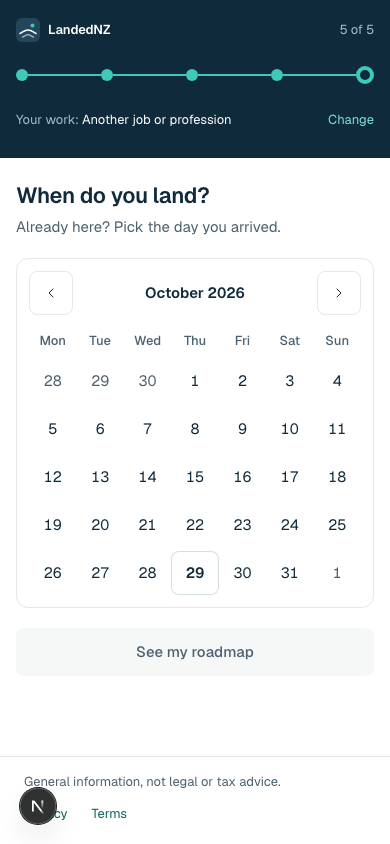
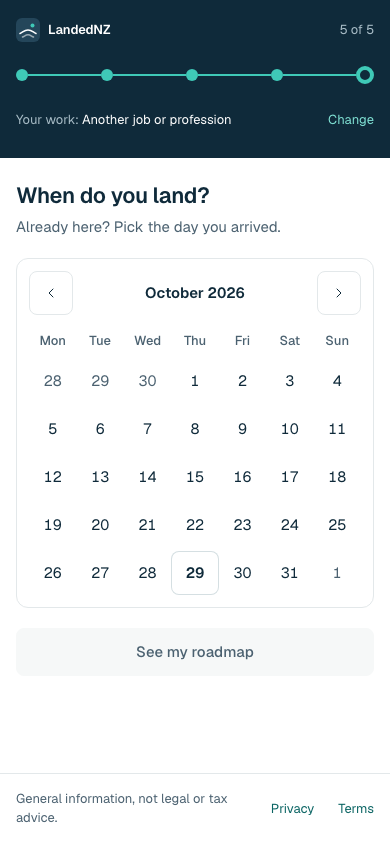
docs: public screens gate and behaviour audit

diff --git a/docs/design/r1-final/gate/behaviour-audit.md b/docs/design/r1-final/gate/behaviour-audit.md
@@ -1,0 +1,106 @@
+# Behaviour audit: feat/r1-public-screens against main
+
+Range: `d37e292` (main, merge base) to `64ec7c3`. Paths: `apps/api/**`, `packages/types/**`, `apps/web/src/lib/**`,
+`apps/web/src/app/**/route.ts`, `apps/web/src/proxy.ts`.
+
+The branch carries 100 commits: the content platform and verification work (2026-10-25), R0 polish (2026-10-28) and the
+final screens (2026-10-29). Each change is matched to the spec that asked for it. Spec short names:
+
+- **CP**: `docs/superpowers/specs/2026-10-24-content-platform-design.md`
+- **R0**: `docs/superpowers/specs/2026-10-24-r0-foundation-design.md`
+- **PS**: `docs/superpowers/specs/2026-10-28-r0-polish-and-stage-c-design.md`
+- **FS**: `docs/superpowers/specs/2026-10-29-final-screens-design.md`
+
+`apps/web/src/app/**/route.ts` and `apps/web/src/proxy.ts`: **no diff**. Test-only files that follow a change
+below (fixtures renamed for the new enum values, new tests) are not listed.
+
+## Summary
+
+| Result | Count |
+|---|---|
+| Spec-backed | 33 |
+| Reverted | 0 |
+| Owner decision | 2 |
+
+## apps/api and packages/types
+
+| # | File | Change | Spec |
+|---|---|---|---|
+| 1 | `apps/api/content/**` (tasks, facts, sources, research, dimensions.yaml; `kb-master.md` removed) | Verified task content T01–T36, new facts and sources, research notes; the legacy markdown is gone | CP §5 stages 0–4, §6 steps 5, 7 and 9 |
+| 2 | `packages/types/dimensions.ts`, `prisma/schema.prisma`, migration `20261025100000_dimension_changes` | Stage 0 answer values: 8 visas, `SOLE_PARENT`, Technology and Finance folded into Another profession; existing rows mapped in the migration | CP §3.1, §5 stage 0, §6 step 6, §8.2 |
+| 3 | `golden-examples/rag-retrieval.ts` | Fixture occupation `TECHNOLOGY` → `OTHER_PROFESSIONAL` (value no longer exists) | follows #2 |
+| 4 | `src/content/rules.ts` | Tighter figure, provider and staleness rules; month names case-sensitive | CP §3.6 rules 3 and 6 |
+| 5 | `src/content/review.ts`, `scripts/content-review.ts`, `package.json` `content:review` | Per-task review page for the owner | CP §5 stage 4 |
+| 6 | `scripts/convert-kb-master.ts` (removed), `src/content/build.ts`, `src/content/index.ts` | Conversion bridge removed; `checkedAt` optional because retired stubs have no items | CP §6 step 9; §4.3 (retired tasks served read-only) |
+| 7 | `features/roadmap/roadmap.service.ts` `getTaskDetail` | `lastVerified: checkedAt ?? null` for retired stubs | CP §4.3, §8.3 |
+| 8 | `features/roadmap/roadmap.build.ts` `reconcileRoadmap`, `onboarding.service.ts`, `roadmap.recalculate.ts`, `roadmap.types.ts` (`entriesAdded`, `entriesRemoved`) | Changing answers and the content-deploy recalculate both reconcile: add newly applicable tasks, drop open (`NOT_STARTED`) ones that no longer apply, keep every started entry, rescore | CP §4.3 (no user data lost, retired tasks kept read-only), §8.3; plan `2026-10-25-content-verification.md` Task 6 |
+| 9 | `features/roadmap/roadmap.build.ts` `bestByDate`, `roadmap.service.ts` `getRoadmap`, `roadmap.types.ts` `RoadmapTask.bestBy` | `bestBy` = arrival + earliest `toDay` − 1 | FS §2 decision 5, §6.1 |
+| 10 | `features/chat/service.ts` | SSE CORS header echoes the request origin only when it is in `CORS_ORIGIN` (was hard-coded `http://localhost:3000`) | R0 §4.4 (CORS restricted to the environment's web origins) |
+| 11 | `features/roadmap/roadmap.service.ts` `getTaskDetail` | `governmentSourceUrl` (the task's action button) now comes from the first step's source, falling back to the why line's; main used the why line first | **Owner decision**, see below |
+
+## apps/web/src/lib
+
+| # | File | Change | Spec |
+|---|---|---|---|
+| 12 | `api.ts` | `RoadmapApiTask.bestBy` | FS §6.1 |
+| 13 | `answers.ts` | `SOLE_PARENT` wording "you and your children" | CP §8.2 (follows #2) |
+| 14 | `answers.ts` `answersShort` | Save chip's short answers line "visa · city · who · lands d Mon" | FS §4.1 (Save your roadmap) |
+| 15 | `legs.ts` `legForPhase` (replaces hard-coded `T01–T21` id ranges) | A task's stage comes from its content phase, so T22–T36 land in the right stage | CP §5 stage 1 (phases per task) |
+| 16 | `legs.ts` `legName`, `legWhen` copy | "Before you fly" until arrival, "by 1 Mar", "1–2 Mar", "from April" | PS §3.3 (stage names and dates) |
+| 17 | `legs.ts` `legStart` | Start date of the next stage for "Nothing else this week. {stage} starts on {d Month}." | PS §3.3 (Also this week empty line) |
+| 18 | `nz-date.ts` | New formatters `shortDate`, `dayMonth`, `weekdayDay`, `weekdayDayNZ` | FS §3.1, §5.1, §5.2, §6.2 (date formats) |
+| 19 | `calendar.ts` (new) | Month grid, key moves, land chip and titles for the Calendar | FS §4.3 |
+| 20 | `route-view.ts` order | Route ordered by phase, then id (was id only) | CP §5 stage 1 (follows #15) |
+| 21 | `route-view.ts` `waitsOn` | "Waits on {topic}" replaces "Needs {topic} first" | FS §2 decision 7, §5.1 |
+| 22 | `route-view.ts` `blocker`, `blockedBy`, `bestBy`, `unlocksOf` | Data for Unlocks, arcs and Best done by | FS §3.1 (arcs), §5.1, §5.2, §6.2 |
+| 23 | `route-view.ts` `buildRouteView(…, now)` | Stage name depends on before/after arrival | PS §3.3 |
+| 24 | `route-progress.ts` (new) | Road geometry: flags `[150, 270, 530, 820, 1000]`, You by tasks done, Today by date, dots, stage row | FS §3.1 |
+| 25 | `route-progress.ts` marker stage | After arrival the "You're here" pill and "· now" sit on the calendar stage; flags and the walked road stay on the current stage | FS §3.1 and critique-independent.md P2-1 (S3 owner-accepted) |
+| 26 | `roadmap-itinerary.ts` (new) | Done so far, Today, current stage and later stages rows | FS §5.2 |
+| 27 | `home-view.ts` greeting and subline | "Welcome to {city}" ("Welcome" before arrival); "n of N done · day d since you landed on {date}" | FS §5.1 items 1 |
+| 28 | `home-view.ts` next move | `nextMeta`, `unlocks` | FS §5.1 item 3 |
+| 29 | `home-view.ts` Then this week | Stage today falls in, up to 3 rows, "n more in {stage}", "n days left" aside, empty line | FS §5.1 item 3, §3.1 (n days left); PS §3.3 |
+| 30 | `home-view.ts` Recently done | Latest 4, "Done {Wed 4 Nov} · {stage}", total | FS §5.1 item 4 |
+| 31 | `home-view.ts` Your plan card data removed, `firstName` removed | The plan card goes; greeting no longer uses the name | FS §5.1 item 5, item 1 |
+| 32 | `tel-links.ts` (new) | NZ freephone numbers become `tel:` links | PS §3.5 |
+| 33 | `task-copy.ts` titles T01, T11, T12, T17, T19; new T28 | App titles match the verified tasks; title for the new visa-conditions task | CP §5 stages 1–2 |
+| 34 | `suggestions.ts` | Ask's starter questions drop "What documents do I need?" and "What do people get wrong?"; only "How long does it take?" remains | **Owner decision**, see below |
+| 35 | `answers.ts`, `legs.ts` comment-only edits | Example strings in comments | none needed (no behaviour) |
+
+## Owner decisions
+
+1. **#11 Action button opens the first step's page** (`656bf0f fix(roadmap): open the first step's page from the task action`).
+   No spec section asks for it. The content-verification plan's writing rule (plan `2026-10-25-content-verification.md`, "Write")
+   says "`steps[0]` cites the page the user acts on … the task sheet's action link opens it", and all 36 verified tasks were
+   written to that rule. Reverting would send every task's government button to the background page behind the why line
+   instead of the form or online service. Not reverted: the revert reaches every task's main action and contradicts how the
+   verified content was written. Owner to confirm the plan rule stands.
+2. **#34 Fewer Ask starter questions** (`699ce15 feat(web): open a task as a full page instead of a side sheet`).
+   No spec section names it. FS §6.2 says the Ask card is "the existing `AskPanel`, unchanged", and the panel at the
+   spec's date already had this change. The approved Task board (`Task.dc.html`) shows no starter chips at all. Reverting
+   would add two chips the board does not show, on a page that already lists "Have ready" and "Good to know".
+   Not reverted. Owner to confirm.
+
+## Manual click-through
+
+Run 2026-10-29 with Playwright against the production build on 3100 (`next start`, `NEXT_PUBLIC_API_URL=http://localhost:3101`)
+and the API on 3101 (`AI_MODE=mock`, `CORS_ORIGIN=http://localhost:3100`), local Supabase, and the real local user
+`e2e-auth@example.com` reset through `e2e/test-user.ts` (`DELETE /account`, then admin create). No page errors were thrown.
+
+| # | Step | Result |
+|---|---|---|
+| 1 | Onboarding: Landing → Build my roadmap → AEWV, Auckland, Just me, Another job or profession → today on the calendar → See my roadmap | Pass. Lands on `/onboarding/preview`, h1 "Your roadmap is ready" |
+| 2 | Preview | Pass. "Before you fly · 7 tasks" and the Start here block shown |
+| 3 | Save my roadmap | Pass. `/signin?redirect=%2Fapp`, h1 "Save your roadmap", chip "Saving your roadmap · 19 tasks" |
+| 4 | Email sign-in → Home | Pass. `/app`, h1 "Welcome to Auckland" (profile saved from the held answers) |
+| 5 | Complete a task (T06 Get an NZ SIM card) | Pass. Mark as done → "Mark as not done"; still done after reload |
+| 6 | Reopen it | Pass. Mark as not done → "Mark as done"; still open after reload |
+| 7 | Settings: mark T06 done, Change City → Wellington region → Save and rebuild | Pass. Answers list shows "Wellington region"; Home h1 "Welcome to Wellington"; T06 still done after the rebuild |
+| 8 | Ask on a task: `/app/roadmap?task=T08&ask=1`, ask "What documents do I need?" | Pass. The Ask input has focus on open; a mock reply streams in with the trace "Answered from the LandedNZ knowledge base" |
+| 9 | Sign out (account menu → Sign out) | Pass. Back on `/`; `/app` then redirects to `/signin?redirect=%2Fapp` |
+| 10 | Sign in again | Pass. `/app`, h1 "Welcome to Wellington" (answers kept) |
+
+Not run: **Continue with Google.** Local Supabase has no Google OAuth client, so the Google button cannot complete a sign-in here.
+The button renders on Sign in and Save (shots), and the shared path after any sign-in (`/auth/complete`) is the one steps 4 and 10 used.
+
+The same flows are covered by the e2e suite (`journey`, `auth`, `change-answers`), which passed on 3100/3101.

diff --git a/docs/design/r1-final/gate/critique-final.md b/docs/design/r1-final/gate/critique-final.md
@@ -1,0 +1,110 @@
+⚠ DEGRADED: single-context (the controller's brief for task S4 forbids dispatching subagents; Assessment A was written from the committed shots before the detector ran)
+
+# Final critique: all final screens (S4 gate)
+
+Target: `apps/web` (slug `apps-web`). Pages: Landing, Sign in, Save your roadmap, Build my roadmap (question and date),
+Your roadmap is ready, Home, Roadmap, Task details, Settings, at 1440 × 900 and 390 × 844.
+Shots: `docs/design/r1-final/gate/*-1440.png`, `*-390.png`. They come from a production build (`next start -p 3100`) against the API
+on 3101 (`AI_MODE=mock`), with a test user on day 1 (arrival 29 Oct 2026, 0 of 19 done). The Next.js dev badge is absent
+(`nextjs-portal` not in the DOM on any page).
+
+## Design Health Score
+
+| # | Heuristic | Score | Key Issue |
+|---|-----------|-------|-----------|
+| 1 | Visibility of System Status | 4 | Road, "You're here", Today line, "n of N done · day d" on every workspace page; Save chip states what is being saved |
+| 2 | Match System / Real World | 3 | "Before you fly" on the preview while Home and Roadmap say "Before you flew" for the same day-1 user |
+| 3 | User Control and Freedom | 4 | Change on every answer, Back on the date step, undo on done, Cancel in Settings |
+| 4 | Consistency and Standards | 3 | Blocked meta reads "Waits on …" in the app but "After you choose where to live" on the preview and "Needs your IRD number" in the landing figure |
+| 5 | Error Prevention | 3 | Save and rebuild is disabled until an answer changes; no confirmation is needed beyond that, rebuild keeps done tasks |
+| 6 | Recognition Rather Than Recall | 4 | Answers always visible in the rail and Settings; stage names on the road |
+| 7 | Flexibility and Efficiency | 3 | Ask has a `/` shortcut; phone keeps Mark as done and Ask fixed above the tab bar |
+| 8 | Aesthetic and Minimalist Design | 3 | Calm and consistent; day-1 empty states make Home's lower half sparse |
+| 9 | Error Recovery | 3 | Save-failed and ApiDown states exist (not shot in this run) |
+| 10 | Help and Documentation | 3 | Sources with checked dates and Ask on every task; no separate help |
+| **Total** | | **33/40** | **Good** |
+
+## Design Specificity Verdict
+
+**LLM assessment.** Authored for this product. The curvy road with date-spaced flags, the ink answers rail shared by Build my
+roadmap, the preview and Settings, and the numbered citations tied to the Sources card could not be lifted onto another product
+unchanged. The workspace pages read as one system: same 120 px edge, same card radius and hairlines, same teal used only for
+state and links.
+
+**Deterministic scan.** `impeccable detect --json src/components src/app` returned `[]` (exit 0): no findings, so no false
+positives to discount.
+
+**Visual overlays.** Not injected (single-context run; the browser was driven by Playwright for measurements only). No overlay
+is visible to the user.
+
+## Overall Impression
+
+The screens match their boards and hold together at both widths. Nothing blocks a migrant from building, saving and working
+through the roadmap. What is left is wording consistency between the pre-sign-in pages and the workspace, and phone pill overlap.
+
+## What's Working
+
+- **The road carries the plan.** Five labelled stages with counts and dates ("Arrival · now / 4 tasks · 29–30 Oct") make the
+  90 days readable at a glance on Home and Roadmap.
+- **Trust is visible.** The task page puts a numbered citation on every step and a Sources card with "checked 25 Oct 2026" and
+  domains beside the steps.
+- **One next action per page.** Home and Roadmap each lead with the next task and a single ink **Start task**.
+
+## Priority Issues
+
+- **[P2] Stage name differs between the preview and the workspace on arrival day.**
+  Why: the preview says "Before you fly · 7 tasks" for a user landing today, Home says "Before you flew". The same user sees both minutes apart.
+  Fix: give the preview the same `legName(id, beforeArrival)` rule the route uses. This is copy only; owner call since the spec §4.4 names the row "Before you fly".
+  Suggested command: $impeccable clarify
+- **[P3] Blocked-task wording has three forms.** "Waits on …" (Home, Roadmap), "After you choose where to live" (preview), "Needs your IRD number" (landing figure).
+  Fix: use "Waits on …" in the preview row and the landing figure.
+  Suggested command: $impeccable clarify
+- **[P3] Phone "You're here" pill covers the start of the road** (known since S3, P3-8). At 390 the pill sits over the first flag and dots.
+  Fix: anchor the pill above the ring and clamp it inside the card, or drop the tag on phones and keep the ring.
+  Suggested command: $impeccable adapt
+- **[P3] "Before you flew · still open" and "Arrival · now" crowd the first two stage labels at 1440** (stage 0 is 150 of 1000 wide).
+  Fix: none needed at this size (they fit on one line each); watch it if the copy grows.
+
+P0: none. P1: none.
+
+## Persona Red Flags
+
+**Busy one-minute check-in (phone):** Home at 390 shows the next task, Start task (44 px) and two week rows above the fold. The
+fixed tab bar and Mark as done bar hide part of the task text while scrolling; content scrolls clear of them, so no task is unreachable.
+
+**Planner at a desk (1440):** Roadmap lists each stage with Show buttons; on day 1 the Arrival section mixes in six tasks
+carried from Before you flew, tagged "Before you flew · 1–2 hours", which is clear but long. No red flag.
+
+**First-timer:** Landing to preview needs five answers and no account; the Save screen's chip repeats what is being saved. No red flag.
+
+## Minor Observations
+
+- At 390 the public footer wraps its disclaimer to two lines (70.7 px tall); the signed-in footer is one row ("Not legal or tax advice · Privacy · Terms", 37 px, no overflow).
+- Task phone shot is full-page, so the fixed bars sit mid-image; the live page is correct.
+- Settings desktop "Save and rebuild" is disabled until a change is made; the quiet disabled style reads correctly.
+
+## Measurements (production build, from the committed shots' run)
+
+| Page | 1440 content edge / width | 390 gutter / width | Overflow (scrollWidth) |
+|---|---|---|---|
+| Landing | full-bleed hero; footer edge 160 | full-bleed | 1440 / 390 |
+| Sign in, Save | 160 / 1120 | 16 / 358 | 1440 / 390 |
+| Build my roadmap (question, date), preview | rail 440 at x 0 (padding 48), content x 560 (as board `padding:32px 120px`), header/footer edge 160 | 16 / 358 | 1440 / 390 |
+| Home, Roadmap, Task, Settings | 120 / 1200 | 16 / 358 | 1440 / 390 |
+
+- Footer: 1440 height 65 on every page; 390 signed-in 37 (one row: the disclaimer, Privacy and Terms share one line; scrollWidth − clientWidth 0); 390 public 70.7. Task at 390 hides the footer behind its fixed bars.
+- Font sizes in use: 48, 24, 22, 18, 15, 13, 12 px only (12 = citation numbers and tab bar labels); the e2e type-scale check passes on every page at both sizes.
+
+## Questions to Consider
+
+- Should the preview switch to "Before you flew" on and after arrival, like the workspace?
+- Does the phone road need the "You're here" tag at all, given the ring and the "Arrival · now" label under it?
+
+## Run Notes
+
+- Target slug: `apps-web`. Ignore list: none (`.impeccable/critique/ignore.md` absent).
+- Assessment independence: degraded, single context (brief forbids subagents).
+- CLI detector: ran, `[]`.
+- Browser: Playwright (production build on 3100) for shots and measurements; overlay injection not attempted; no live server started.
+- Snapshot persistence: not written (this file is the gate record).
+- Questions skipped: the owner reviews this file at the gate; the controller runs the final review.

diff --git a/docs/design/r1-final/gate/README.md b/docs/design/r1-final/gate/README.md
@@ -1,6 +1,10 @@
 # Design gate screenshots
 
-App: signed-in test user, arrival today (day 1), local dev servers. Boards: `docs/design/r1-final/*.dc.html` rendered at the same size. Dev-only Next.js badge appears bottom-left in app shots.
+App: signed-in test user, arrival today (day 1, 29 Oct 2026), production build (`next start -p 3100`) against the API on 3101 (`AI_MODE=mock`); no dev-tools badge. Boards: `docs/design/r1-final/*.dc.html` rendered at the same size. Re-shot in S4.
+
+Widths at 1440: public pages (Landing, Sign in, Save) have a 160 px content edge and 1120 px content; Build my roadmap and the preview keep the board's 440 px ink rail at x 0 with content at x 560, and their header and footer sit at the 160 px edge; the workspace pages (Home, Roadmap, Task, Settings) have a 120 px edge and 1200 px content, as their boards. Phone gutter is 16 px everywhere. No page scrolls sideways at either width. The signed-in footer at 390 is one row (37 px).
+
+Records: [behaviour-audit.md](behaviour-audit.md) (behaviour against main and the click-through), [critique-final.md](critique-final.md) (final critique).
 
 | Page | App 1440 | Board 1440 | App 390 | Board 390 | Difference |
 |---|---|---|---|---|---|
@@ -8,9 +12,9 @@ App: signed-in test user, arrival today (day 1), local dev servers. Boards: `doc
 | Sign in (PsSignIn / PsSignInPhone) | [signin-1440.png](signin-1440.png) | [board](signin-1440-board.png) | [signin-390.png](signin-390.png) | [board](signin-390-board.png) | Type scale only, as specced. |
 | Save your roadmap (PsSave / PsSavePhone) | [save-1440.png](save-1440.png) | [board](save-1440-board.png) | [save-390.png](save-390.png) | [board](save-390-board.png) | Type scale only, as specced. |
 | Build my roadmap (question) (StRail / StRailPhone) | [rail-1440.png](rail-1440.png) | [board](rail-1440-board.png) | [rail-390.png](rail-390.png) | [board](rail-390-board.png) | Matches; board shows a mid-journey rail, app shows step 1. |
-| Build my roadmap (date) (StRailDate / StRailPhone (no date phone board)) | [rail-date-1440.png](rail-date-1440.png) | [board](rail-date-1440-board.png) | [rail-date-390.png](rail-date-390.png) | [board](rail-date-390-board.png) | Matches; board has a selected day and Tomorrow chip, app shot is before a day is picked. |
+| Build my roadmap (date) (StRailDate / StRailPhone (no date phone board)) | [rail-date-1440.png](rail-date-1440.png) | [board](rail-date-1440-board.png) | [rail-date-390.png](rail-date-390.png) | [board](rail-date-390-board.png) | Matches; board has a selected day and Tomorrow chip, app shot is before a day is picked (today outlined). |
 | Your roadmap is ready (StRailPreview (used for both sizes)) | [preview-1440.png](preview-1440.png) | [board](preview-1440-board.png) | [preview-390.png](preview-390.png) | [board](preview-390-board.png) | Matches; different answers and counts, so task names differ. |
-| Home (Home / HomePhone) | [home-1440.png](home-1440.png) | [board](home-1440-board.png) | [home-390.png](home-390.png) | [board](home-390-board.png) | Content column is 1072 px wide at 1440 (board 1200); phone side gutter 24 px (board 16 px). Board shows day 5 with 9 done, app shows day 1 empty states. Phone road labels differ. |
-| Roadmap (Roadmap / RoadmapPhone) | [roadmap-1440.png](roadmap-1440.png) | [board](roadmap-1440-board.png) | [roadmap-390.png](roadmap-390.png) | [board](roadmap-390-board.png) | Same width and gutter difference. App adds a subtitle 'Done some already?' under the title. Board shows Done so far and Unlocks, app is day 1 so neither appears. |
-| Task details (Task / TaskPhone) | [task-1440.png](task-1440.png) | [board](task-1440-board.png) | [task-390.png](task-390.png) | [board](task-390-board.png) | Same width and gutter difference. App page scrolls as a whole (board scrolls inside the card). App adds 'Open the IRD application' and source domains; ask title reads 'Ask about your IRD number'. Phone shot is a full-page capture, so the fixed bars sit mid-image. |
-| Settings (Settings / SettingsPhone) | [settings-1440.png](settings-1440.png) | [board](settings-1440-board.png) | [settings-390.png](settings-390.png) | [board](settings-390-board.png) | Same width and gutter difference. Board shows City being changed, app opens on Visa (first answer). |
+| Home (Home / HomePhone) | [home-1440.png](home-1440.png) | [board](home-1440-board.png) | [home-390.png](home-390.png) | [board](home-390-board.png) | Width and gutter match (1200 at a 120 px edge, 16 px phone gutter). Board shows day 5 with 9 done, app shows day 1 empty states. Phone road labels differ. |
+| Roadmap (Roadmap / RoadmapPhone) | [roadmap-1440.png](roadmap-1440.png) | [board](roadmap-1440-board.png) | [roadmap-390.png](roadmap-390.png) | [board](roadmap-390-board.png) | Width and gutter match. App adds a subtitle 'Done some already?' under the title. Board shows Done so far and Unlocks, app is day 1 so neither appears. |
+| Task details (Task / TaskPhone) | [task-1440.png](task-1440.png) | [board](task-1440-board.png) | [task-390.png](task-390.png) | [board](task-390-board.png) | Width and gutter match. App page scrolls as a whole (board scrolls inside the card). App adds 'Open the IRD application' and source domains; ask title reads 'Ask about your IRD number'. Phone shot is a full-page capture, so the fixed bars sit mid-image. |
+| Settings (Settings / SettingsPhone) | [settings-1440.png](settings-1440.png) | [board](settings-1440-board.png) | [settings-390.png](settings-390.png) | [board](settings-390-board.png) | Width and gutter match. Board shows City being changed, app opens on Visa (first answer). |
